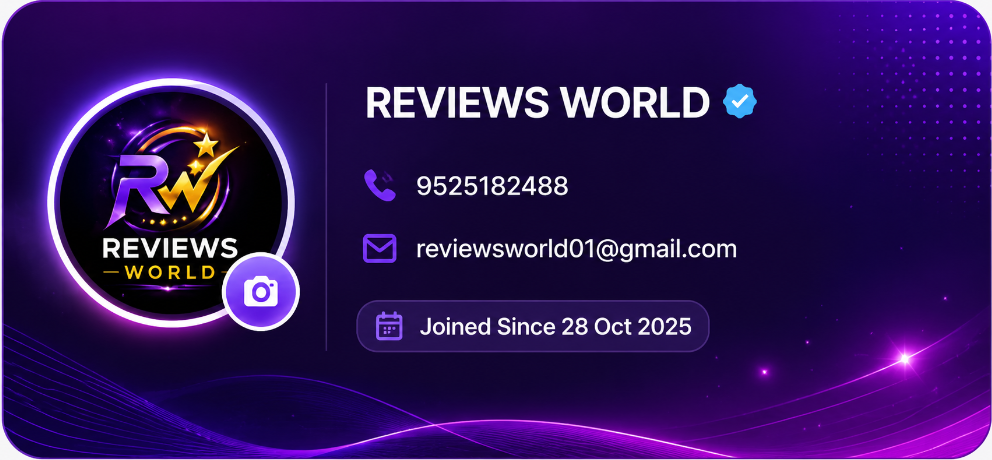
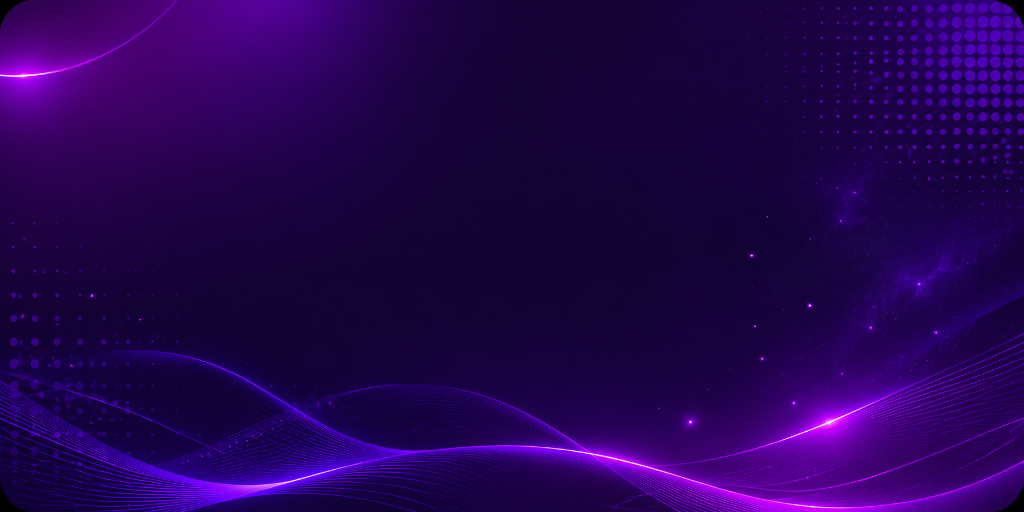
feat: set high-res local profile card background with preload link to prevent reloading flicker

diff --git a/index.html b/index.html
@@ -19,6 +19,7 @@
     <link rel="apple-touch-icon" href="https://i.ibb.co/x8YBYwGG/6233389803554672153.jpg">
     <link rel="preload" as="image" href="https://i.ibb.co/x8YBYwGG/6233389803554672153.jpg" fetchpriority="high">
     <link rel="preload" as="image" href="https://cdn-icons-png.flaticon.com/512/2040/2040946.png" fetchpriority="high">
+    <link rel="preload" as="image" href="/profile_card_bg.png" fetchpriority="high">
     <link rel="preconnect" href="https://fonts.googleapis.com">
     <link rel="preconnect" href="https://fonts.gstatic.com" crossorigin>
     <link href="https://fonts.googleapis.com/css2?family=Inter:wght@400;500;600;700;800&family=Manrope:wght@400;500;600;700;800&display=swap" rel="stylesheet">

diff --git a/src/styles/tailwind.input.css b/src/styles/tailwind.input.css
@@ -10,12 +10,7 @@
     gap: 18px;
     padding: 18px;
     border-radius: 24px;
-    background: linear-gradient(
-        135deg,
-        #28115c,
-        #52208f,
-        #6a2bc9
-    );
+    background: url('/profile_card_bg.png') center/cover no-repeat, #28115c;
     box-shadow: 0 15px 35px rgba(110,70,255,.30);
     overflow: hidden;
     position: relative;
